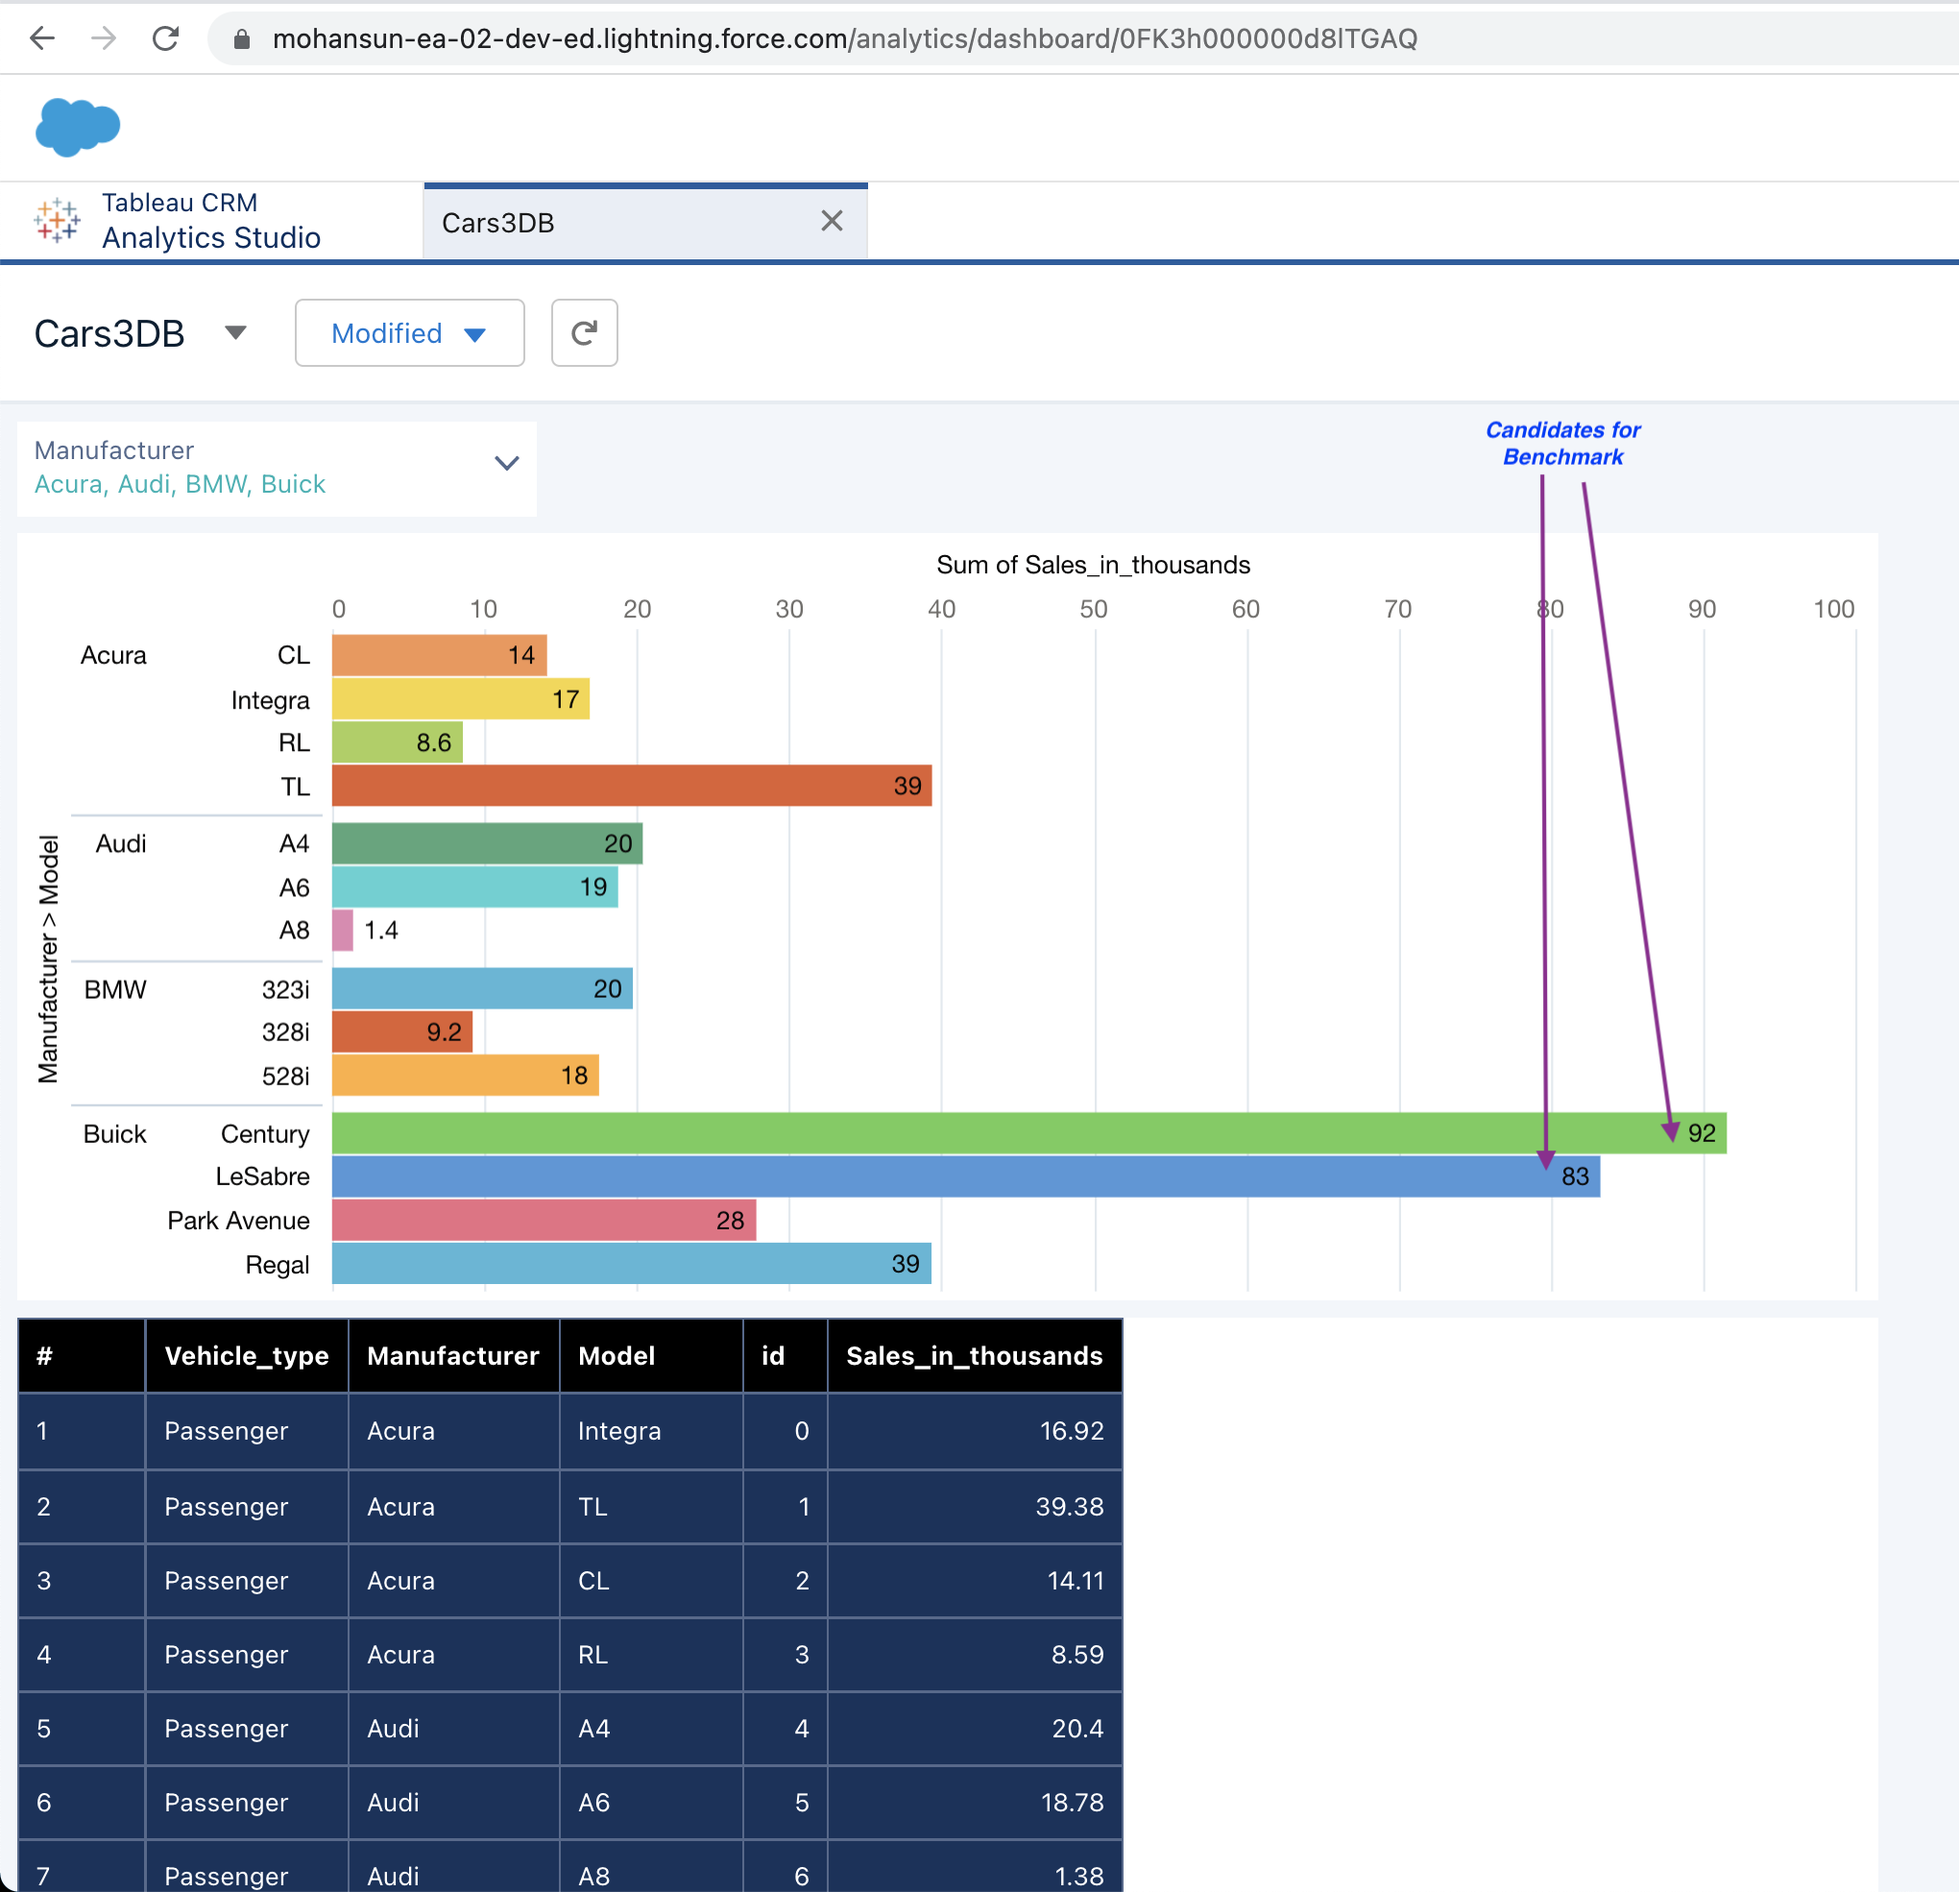
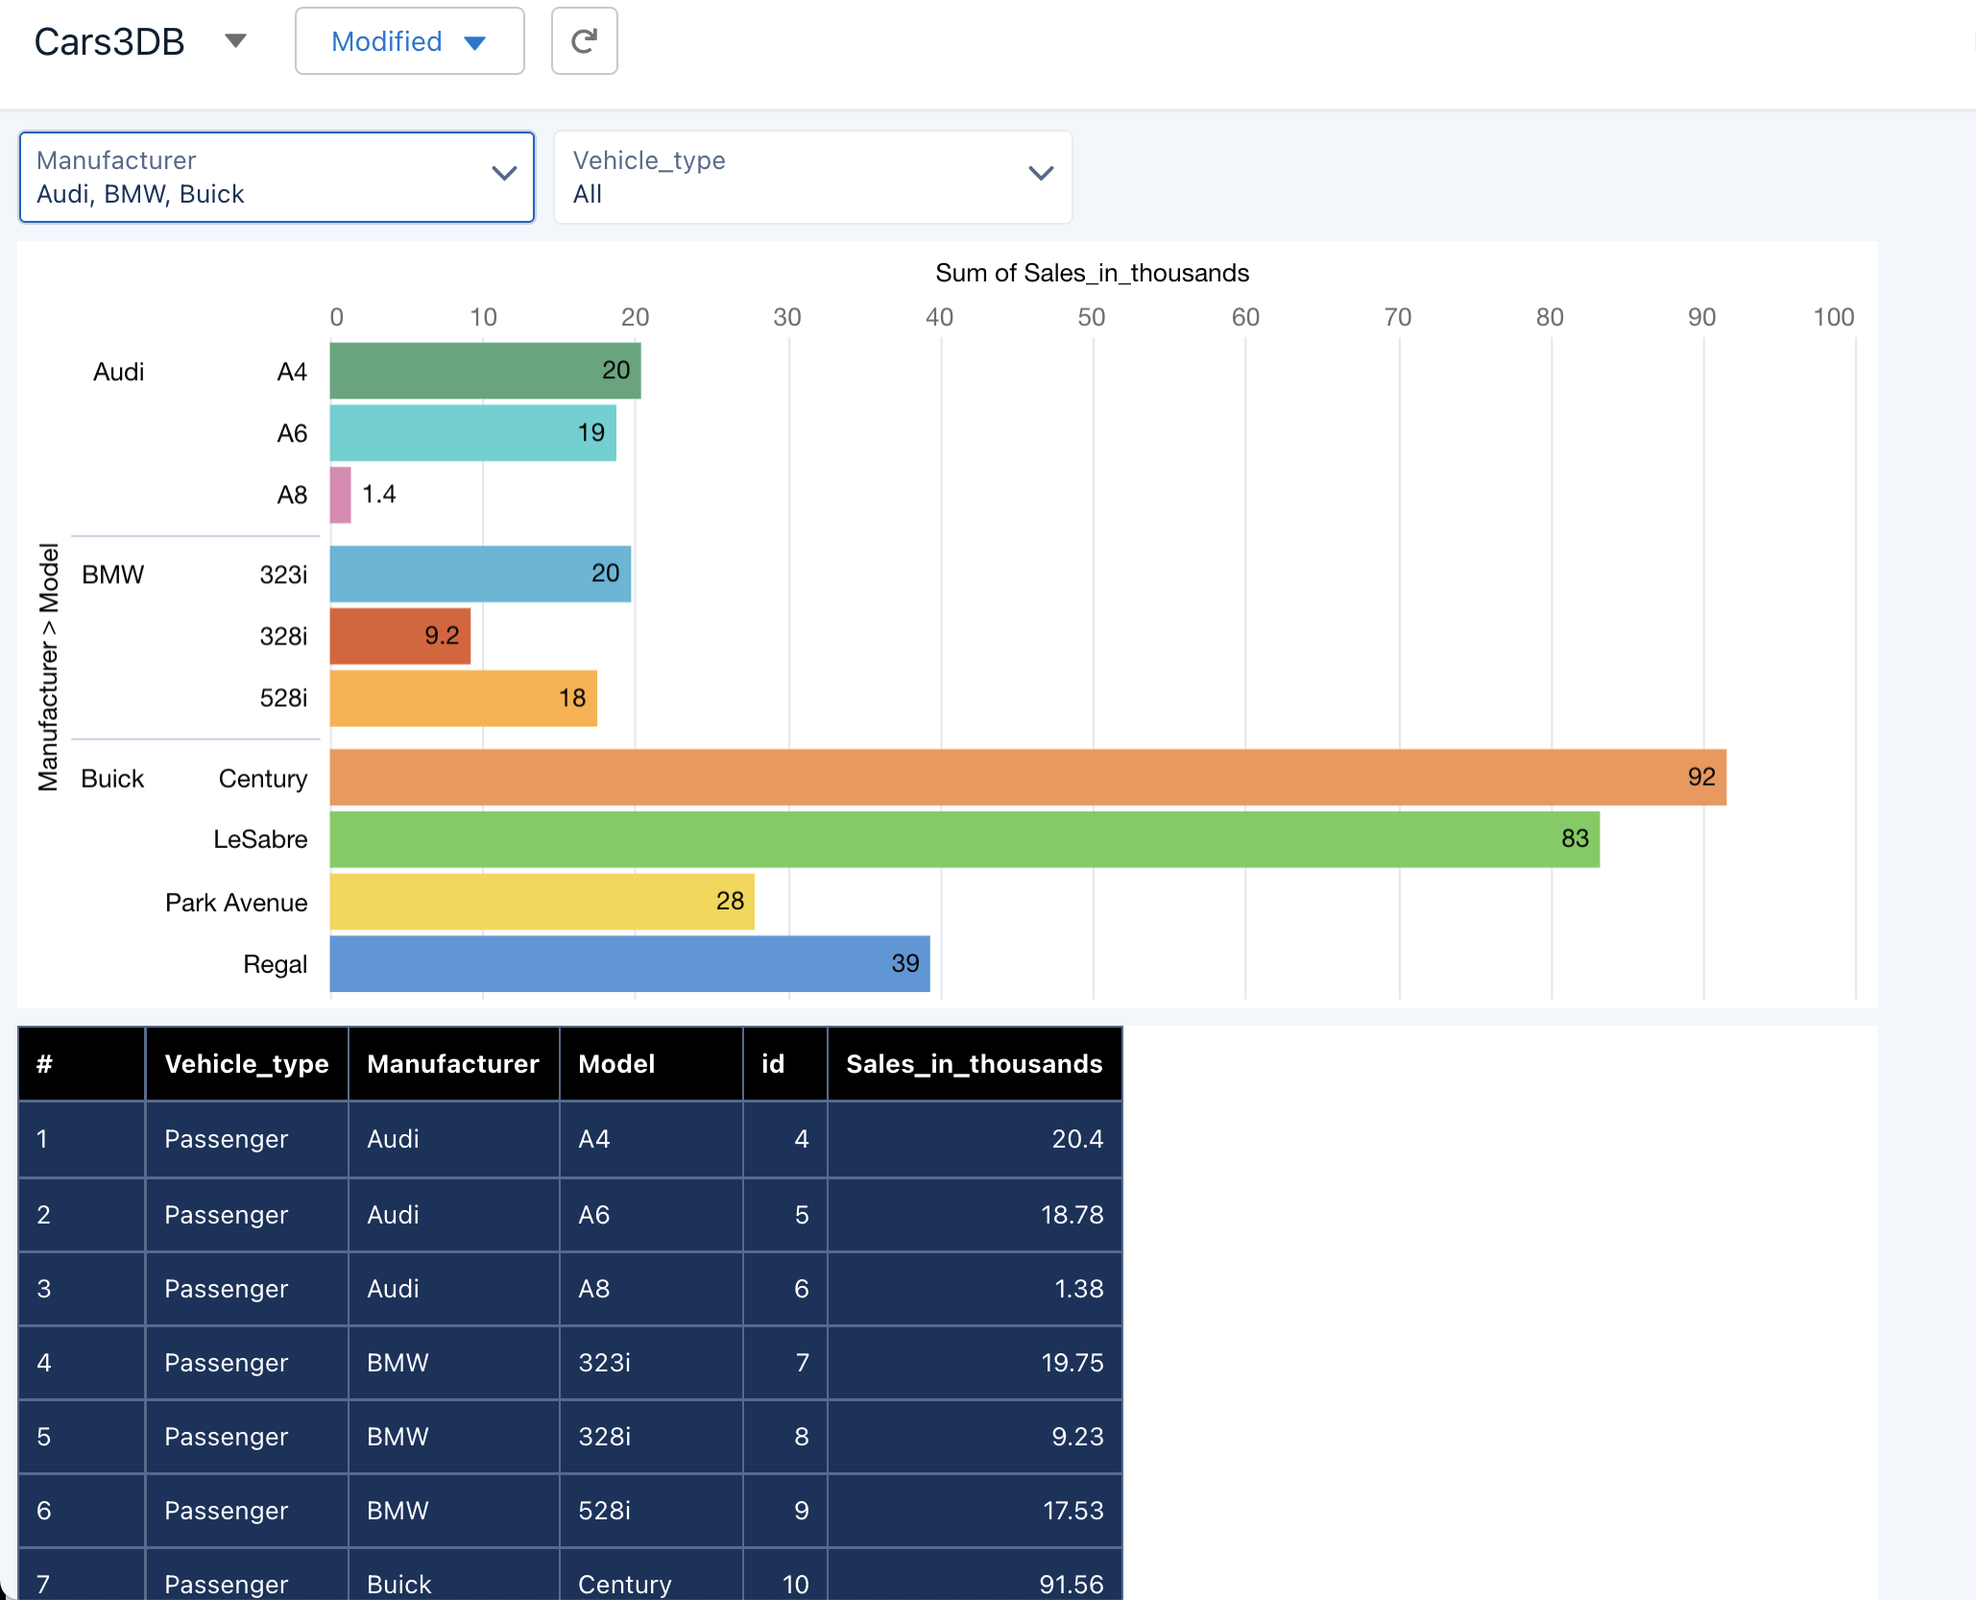
cleanup

diff --git a/cars/README.md b/cars/README.md
@@ -28,7 +28,7 @@ Id,Version,Name,Label
 
 
 ## Finding the highest selling Cars (benchmark) from the manufacturers
-- ![benchmark candidates](./demos/cars3-db-1.png)
+- ![benchmark candidates](./demos/cars3-db-2.png)
 
 ## Dashboard demos
 
